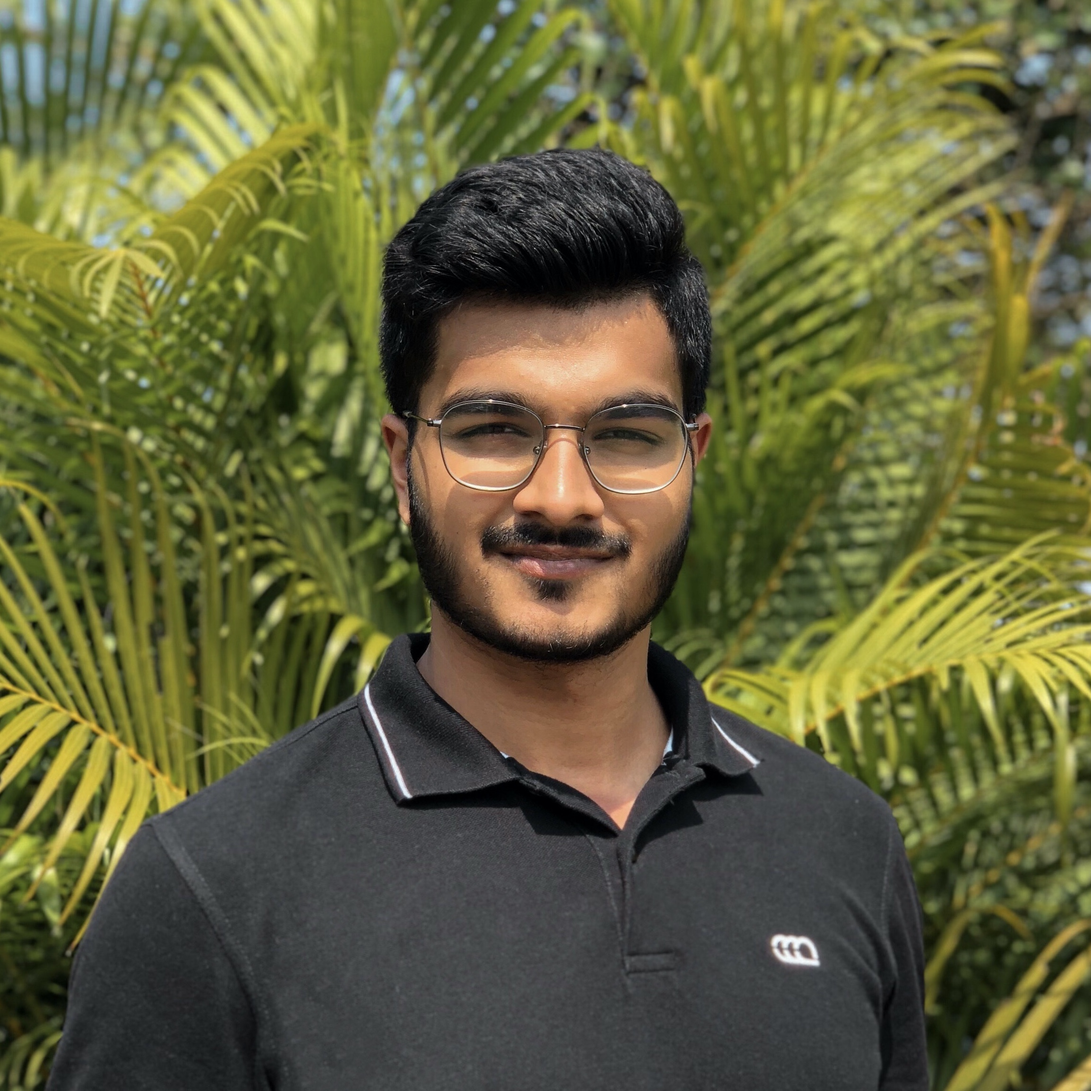
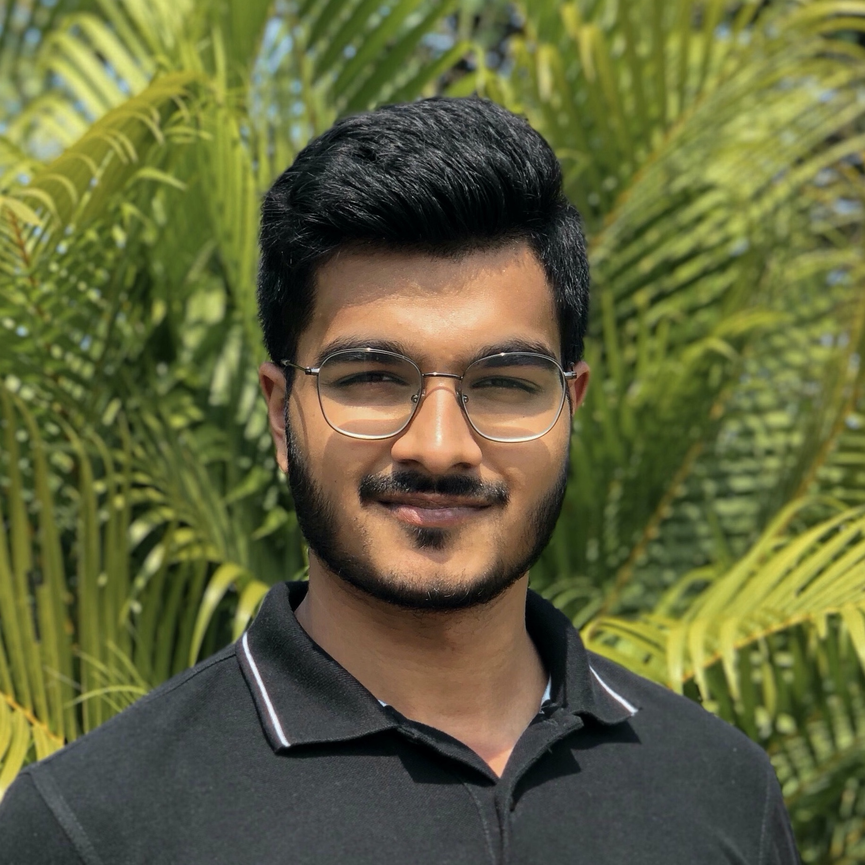
add remaining team details & minor refactor

diff --git a/src/data/team.data.js b/src/data/team.data.js
@@ -3,28 +3,28 @@ export const TeamData = [
     key: '1',
     name: 'Rasansha Luthra',
     position: 'Chairperson ACM',
-    linkedInURL: '',
+    linkedInURL: 'https://in.linkedin.com/in/rasansha-luthra-475153170',
     githubURL: '',
     twitterURL: '',
-    displayPicSrc: ''
+    displayPicSrc: require('../assets/display-pics/rasansha.jpg')
   },
   {
     key: '2',
     name: 'Vedant Kaushish',
     position: 'Vice Chairperson ACM',
-    linkedInURL: '',
-    githubURL: '',
+    linkedInURL: 'https://in.linkedin.com/in/vedant-kaushish-974036181',
+    githubURL: 'https://github.com/whitewolf4237',
     twitterURL: '',
-    displayPicSrc: ''
+    displayPicSrc: require('../assets/display-pics/vedant.jpg')
   },
   {
     key: '3',
     name: 'Nitesh Singh',
     position: 'Vice Chairperson ACM',
-    linkedInURL: '',
-    githubURL: '',
-    twitterURL: '',
-    displayPicSrc: ''
+    linkedInURL: 'https://in.linkedin.com/in/nitesh-singh-241024181',
+    githubURL: 'https://github.com/nitessh-singh',
+    twitterURL: 'https://twitter.com/niteshlumos',
+    displayPicSrc: require('../assets/display-pics/nitesh.jpg')
   },
   {
     key: '4',
@@ -33,16 +33,16 @@ export const TeamData = [
     linkedInURL: 'https://www.linkedin.com/in/dakshkhetan',
     githubURL: 'https://github.com/dakshkhetan',
     twitterURL: 'https://twitter.com/dakshkhetan',
-    displayPicSrc: require('./assets/display-pics/daksh.jpg')
+    displayPicSrc: require('../assets/display-pics/daksh.jpg')
   },
   {
     key: '5',
     name: 'Aryan Joshi',
     position: 'General Secretary ACM',
-    linkedInURL: '',
-    githubURL: '',
+    linkedInURL: 'https://in.linkedin.com/in/aryan-joshi-7b1766145',
+    githubURL: 'https://github.com/WHITEWOLF619',
     twitterURL: '',
-    displayPicSrc: ''
+    displayPicSrc: require('../assets/display-pics/aryan.jpg')
   },
   {
     key: '6',
@@ -51,7 +51,7 @@ export const TeamData = [
     linkedInURL: 'https://www.linkedin.com/in/udit-sisodia-6b5799190',
     githubURL: 'https://github.com/udit360',
     twitterURL: 'https://twitter.com/SisodiaUdit',
-    displayPicSrc: require('./assets/display-pics/udit.jpg')
+    displayPicSrc: require('../assets/display-pics/udit.jpg')
   },
   {
     key: '7',
@@ -60,7 +60,7 @@ export const TeamData = [
     linkedInURL: 'https://www.linkedin.com/in/ankur2825',
     githubURL: 'https://github.com/ankur2825',
     twitterURL: 'https://twitter.com/arkhamsamurai',
-    displayPicSrc: require('./assets/display-pics/ankur.jpg')
+    displayPicSrc: require('../assets/display-pics/ankur.jpg')
   },
   {
     key: '8',
@@ -69,7 +69,7 @@ export const TeamData = [
     linkedInURL: 'https://www.linkedin.com/in/bhumika-manocha-762128168',
     githubURL: 'https://github.com/BhumikaManocha',
     twitterURL: 'https://twitter.com/BhumikaManocha',
-    displayPicSrc: require('./assets/display-pics/bhumika.jpg')
+    displayPicSrc: require('../assets/display-pics/bhumika.jpg')
   },
   {
     key: '9',
@@ -78,7 +78,7 @@ export const TeamData = [
     linkedInURL: 'https://www.linkedin.com/in/charu-goyal-12738816a',
     githubURL: 'https://github.com/Charugoyal3',
     twitterURL: 'https://twitter.com/CharuGoyal17',
-    displayPicSrc: require('./assets/display-pics/charu.jpg')
+    displayPicSrc: require('../assets/display-pics/charu.jpg')
   },
   {
     key: '10',
@@ -87,7 +87,7 @@ export const TeamData = [
     linkedInURL: 'https://in.linkedin.com/in/navikachhauda',
     githubURL: '',
     twitterURL: '',
-    displayPicSrc: require('./assets/display-pics/navika.jpg')
+    displayPicSrc: require('../assets/display-pics/navika.jpg')
   },
   {
     key: '11',
@@ -96,7 +96,7 @@ export const TeamData = [
     linkedInURL: 'https://in.linkedin.com/in/arushi-gupta-050976181',
     githubURL: 'https://github.com/arushigupta07',
     twitterURL: 'https://twitter.com/ArushiG02608584',
-    displayPicSrc: require('./assets/display-pics/arushi.jpg')
+    displayPicSrc: require('../assets/display-pics/arushi.jpg')
   },
   {
     key: '12',
@@ -105,6 +105,6 @@ export const TeamData = [
     linkedInURL: 'https://in.linkedin.com/in/bhavini-priyamvada-9497931a5',
     githubURL: '',
     twitterURL: '',
-    displayPicSrc: require('./assets/display-pics/bhavini.jpg')
+    displayPicSrc: require('../assets/display-pics/bhavini.jpg')
   }
 ];

diff --git a/src/components/Footer/Footer.component.jsx b/src/components/Footer/Footer.component.jsx
@@ -22,10 +22,7 @@ const Footer = () => {
           target='_blank'
           rel='noopener noreferrer'
         >
-          <FontAwesomeIcon
-            icon={faInstagram}
-            className='icon instagram'
-          />
+          <FontAwesomeIcon icon={faInstagram} className='icon instagram' />
         </a>
         <a
           href='https://twitter.com/acmbvp'
@@ -33,10 +30,7 @@ const Footer = () => {
           target='_blank'
           rel='noopener noreferrer'
         >
-          <FontAwesomeIcon
-            icon={faTwitter}
-            className='icon twitter'
-          />
+          <FontAwesomeIcon icon={faTwitter} className='icon twitter' />
         </a>
         <a
           href='https://in.linkedin.com/organization-guest/company/acmbvp'
@@ -44,10 +38,7 @@ const Footer = () => {
           target='_blank'
           rel='noopener noreferrer'
         >
-          <FontAwesomeIcon
-            icon={faLinkedinIn}
-            className='icon linkedin'
-          />
+          <FontAwesomeIcon icon={faLinkedinIn} className='icon linkedin' />
         </a>
         <a
           href='https://github.com/acmbvp'
@@ -55,10 +46,7 @@ const Footer = () => {
           target='_blank'
           rel='noopener noreferrer'
         >
-          <FontAwesomeIcon
-            icon={faGithub}
-            className='icon github'
-          />
+          <FontAwesomeIcon icon={faGithub} className='icon github' />
         </a>
         <a
           href='https://www.facebook.com/acmbvp'
@@ -66,10 +54,7 @@ const Footer = () => {
           target='_blank'
           rel='noopener noreferrer'
         >
-          <FontAwesomeIcon
-            icon={faFacebook}
-            className='icon facebook'
-          />
+          <FontAwesomeIcon icon={faFacebook} className='icon facebook' />
         </a>
       </div>
 
@@ -80,6 +65,17 @@ const Footer = () => {
       </p>
       <p className='sub-heading code-of-conduct'>
         <Link to='/code-of-conduct'>Code of Conduct</Link>
+      </p>
+      <p className='sub-heading credit'>
+        Designed & developed by{' '}
+        <a
+          href='https://dakshkhetan.now.sh'
+          target='_blank'
+          rel='noopener noreferrer'
+          className='credit-link'
+        >
+          Daksh Khetan
+        </a>
       </p>
     </section>
   );

diff --git a/src/components/Footer/Footer.styles.scss b/src/components/Footer/Footer.styles.scss
@@ -24,6 +24,22 @@
   .sub-heading {
     font-size: 1.2rem;
     margin-top: -10px;
+
+    &.code-of-conduct {
+      font-size: 1.3rem;
+    }
+
+    &.credit {
+      font-size: 0.9rem;
+      color: #848484;
+      text-transform: capitalize;
+      margin: 10px 0 -5px;
+
+      .credit-link {
+        color: #a3a3a3;
+        cursor: pointer;
+      }
+    }
   }
 
   .social-icons {
@@ -50,6 +66,10 @@
 
       &.code-of-conduct {
         font-size: 1.1rem;
+      }
+
+      &.credit {
+        font-size: 0.8rem;
       }
     }
 

diff --git a/src/components/Events/Events.component.jsx b/src/components/Events/Events.component.jsx
@@ -2,7 +2,7 @@ import React, { useEffect } from 'react';
 import Fade from 'react-reveal/Fade';
 import { animateScroll as scroll } from 'react-scroll';
 
-import { workshops } from '../../workshops.data';
+import { workshops } from '../../data/workshops.data';
 import Carousel from '../Carousel/Carousel.component';
 import Footer from '../Footer/Footer.component';
 

diff --git a/src/components/FAQs/FAQs.component.jsx b/src/components/FAQs/FAQs.component.jsx
@@ -3,7 +3,7 @@ import Fade from 'react-reveal/Fade';
 import { withRouter } from 'react-router-dom';
 import { animateScroll as scroll } from 'react-scroll';
 
-import { FAQData } from '../../faq.data';
+import { FAQData } from '../../data/faq.data';
 
 import FAQ from './FAQ.component';
 import Footer from '../Footer/Footer.component';

diff --git a/src/components/Team/Team.component.jsx b/src/components/Team/Team.component.jsx
@@ -1,7 +1,7 @@
 import React from 'react';
 import Fade from 'react-reveal/Fade';
 
-import { TeamData } from '../../team.data';
+import { TeamData } from '../../data/team.data';
 import Person from '../Person/Person.component';
 
 import { ReactComponent as Illustration } from '../../assets/illustrations/team.svg';

diff --git a/src/components/ACM-W/Accomplishments/Accomplishments.component.jsx b/src/components/ACM-W/Accomplishments/Accomplishments.component.jsx
@@ -1,7 +1,7 @@
 import React from 'react';
 import Fade from 'react-reveal/Fade';
 
-import { accomplishments } from '../../../accomplishments.data';
+import { accomplishments } from '../../../data/accomplishments.data';
 
 import Accomplishment from './Accomplishment.component';
 

diff --git a/src/components/Person/Person.styles.scss b/src/components/Person/Person.styles.scss
@@ -11,6 +11,7 @@
         width: 160px;
         height: 160px;
         border-radius: 50%;
+        border: 4px solid #539dfe;
 
         @media only screen and (max-width : 768px) {
           width: 140px;
